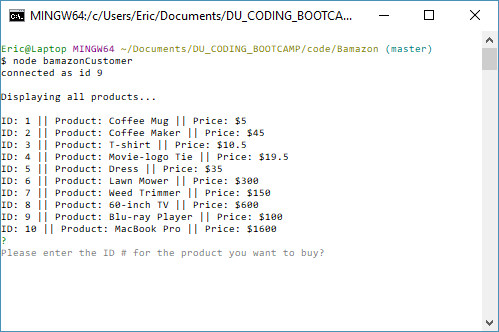
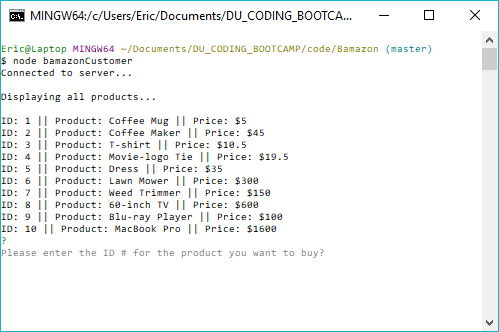
final updates

diff --git a/bamazonCustomer.js b/bamazonCustomer.js
@@ -17,7 +17,7 @@ var connection = mysql.createConnection({
 connection.connect(function(err) {
   if (err) throw err;
 
-  console.log("connected as id " + connection.threadId + "\n");
+  console.log("Connected to server...\n");
   // run the start function after the connection is made to prompt the user
   displayProducts();
 });

diff --git a/bamazonManager.js b/bamazonManager.js
@@ -12,7 +12,7 @@ var connection = mysql.createConnection({
 connection.connect(function(err) {
 	if (err) throw err;
 
-	// console.log("connected as id " + connection.threadId + "\n");
+	console.log("Connected to server...\n");
 });
 
 function startProgram() {
